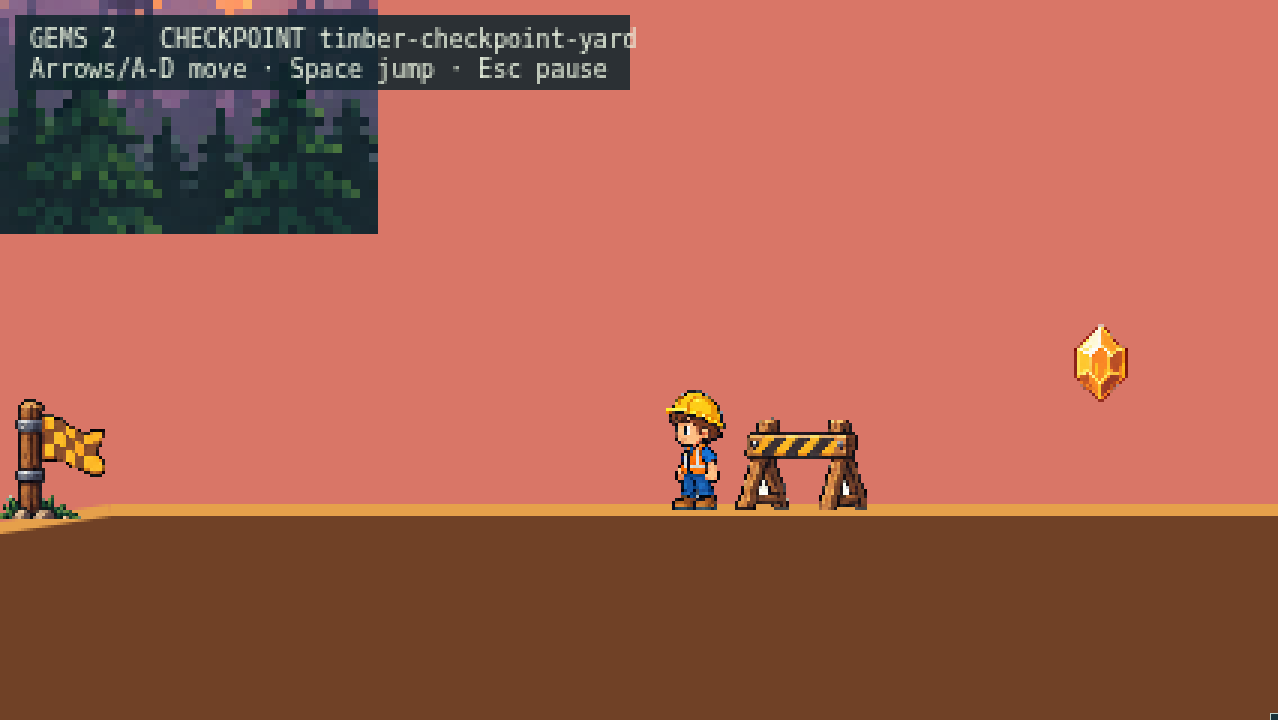
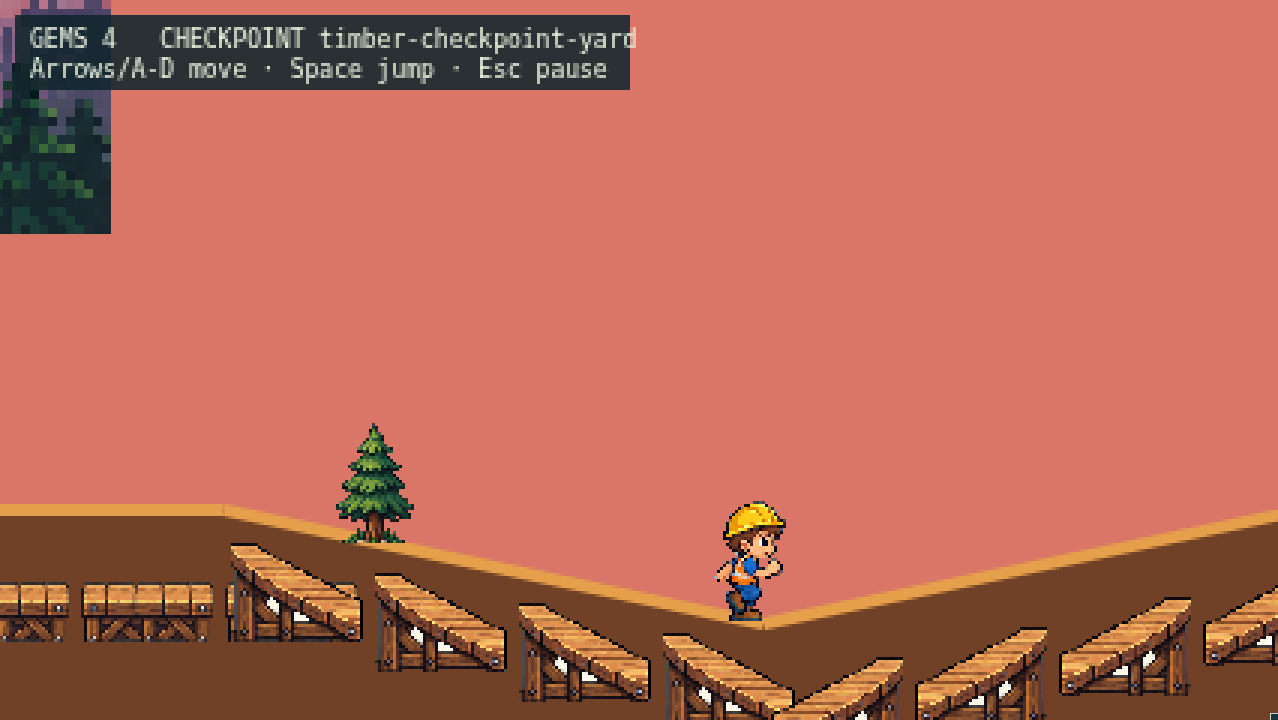
fix: render textured timber trails

diff --git a/tests/renderer.test.ts b/tests/renderer.test.ts
@@ -13,6 +13,7 @@ import { QUARRY_RUN, TREETOP_TIMBERS } from '../src/world/levels';
 import { platformBodyAt } from '../src/game/platforms';
 
 const manifest = JSON.parse(readFileSync(new URL('../public/assets/plains/manifest.json', import.meta.url), 'utf8'));
+const timberManifest = JSON.parse(readFileSync(new URL('../public/assets/timbers/manifest.json', import.meta.url), 'utf8'));
 
 it.each(['tree', 'slime', 'flowers', 'bush', 'stone', 'cave'] as WorldAsset[])(
   'anchors the visible base of %s, excluding atlas padding', (asset) => {
@@ -54,7 +55,7 @@ function recordingContext(): { ctx: CanvasRenderingContext2D; images: unknown[][
     fillStyle: '', strokeStyle: '', lineWidth: 0, font: '', textAlign: 'left' as CanvasTextAlign,
     fillRect: noop, beginPath: noop, moveTo: noop, lineTo: noop, closePath: noop, fill: noop, stroke: noop,
     strokeRect: noop,
-    translate: noop, save: noop, restore: noop,
+    translate: noop, scale: noop, save: noop, restore: noop,
     drawImage: (...args: unknown[]) => { images.push(args); },
     fillText: (text: string, x: number) => { texts.push({ text, x, textAlign: ctx.textAlign }); },
   };
@@ -143,6 +144,44 @@ it('uses the level theme for sky, terrain and parallax placement', () => {
   expect(fills).toContain('#040506');
   expect(images[0][5]).toBe(42);
   expect(images[0][6]).toBe(-33);
+});
+
+it('draws all shared terrain cell roles for textured Treetop surfaces', () => {
+  const assets: WorldAssets = { atlas: {} as HTMLImageElement, manifest: timberManifest };
+  const sampled = new Set<number>();
+  for (const x of [0, 1200, TREETOP_TIMBERS.width - 426]) {
+    const { ctx, images } = recordingContext();
+    drawWorld(ctx, assets, TREETOP_TIMBERS, { position: { x, y: 0 } } as Camera);
+    for (const call of images) {
+      if (call[0] === assets.atlas && call[2] === 0) sampled.add(Number(call[1]) / timberManifest.cellSize);
+    }
+  }
+  expect([...sampled].sort((a, b) => a - b)).toEqual([0, 1, 2, 3]);
+});
+
+it('mirrors textured ramp cells when the terrain descends to the right', () => {
+  const { ctx } = recordingContext();
+  const scale = vi.fn();
+  ctx.scale = scale;
+  const level = { ...PLAINS_LEVEL, minX: 0, maxX: 144, width: 144,
+    theme: { ...PLAINS_LEVEL.theme, scenery: false, texturedTerrain: true },
+    surfaces: [{ x1: 0, y1: 150, x2: 144, y2: 198 }],
+  };
+  drawWorld(ctx, worldAssets, level, new Camera({ width: 426, height: 240, worldWidth: 144, worldHeight: 240 }));
+  expect(scale).toHaveBeenCalledWith(-1, 1);
+});
+
+it('draws back, world and front entities in layer order without a scenery pack', () => {
+  const { ctx, images } = recordingContext();
+  const level = { ...PLAINS_LEVEL, theme: { ...PLAINS_LEVEL.theme, scenery: false }, entities: [
+    { id: 'world', kind: 'gem' as const, x: 100, y: 150, asset: 'gem', layer: 'world' as const },
+    { id: 'front', kind: 'decoration' as const, x: 110, y: 150, asset: 'bush', layer: 'front' as const },
+    { id: 'back', kind: 'decoration' as const, x: 120, y: 150, asset: 'tree', layer: 'back' as const },
+  ] };
+  drawWorld(ctx, worldAssets, level, new Camera({ width: 426, height: 240, worldWidth: level.width, worldHeight: level.height }));
+  const entityCells = images.slice(-4, -1).map((call) =>
+    Number(call[1]) / manifest.cellSize + Number(call[2]) / manifest.cellSize * 4);
+  expect(entityCells).toEqual([6, 8, 15]);
 });
 
 const henryAssets = {

diff --git a/src/world/renderer.ts b/src/world/renderer.ts
@@ -45,6 +45,7 @@ export function drawWorld(ctx: CanvasRenderingContext2D, assets: WorldAssets, le
     ctx.closePath();
     ctx.fill();
   }
+  if (level.theme.texturedTerrain) drawTerrainTiles(ctx, assets, level, offset);
   for (const surface of level.surfaces) {
     ctx.strokeStyle = level.theme.edge;
     ctx.lineWidth = 4;
@@ -55,8 +56,8 @@ export function drawWorld(ctx: CanvasRenderingContext2D, assets: WorldAssets, le
   }
   drawPlatforms(ctx, level, offset, platforms);
   // Decorative silhouettes sit behind every collectible, hazard and checkpoint.
-  const entities = scenery ? [...level.entities.filter((entity) => entity.kind === 'decoration'),
-    ...level.entities.filter((entity) => entity.kind !== 'decoration')] : level.entities;
+  const layerOrder: Record<WorldEntity['layer'], number> = { back: 0, world: 1, front: 2 };
+  const entities = [...level.entities].sort((left, right) => layerOrder[left.layer] - layerOrder[right.layer]);
   for (const entity of entities) {
     if (!isVisible(entity)) continue;
     const position = positionOf(entity);
@@ -68,6 +69,36 @@ export function drawWorld(ctx: CanvasRenderingContext2D, assets: WorldAssets, le
   // Keep the draw source referenced so a bad cell size cannot silently pass.
   void atlas;
   void cell;
+}
+
+function drawTerrainTiles(ctx: CanvasRenderingContext2D, assets: WorldAssets, level: LevelData,
+  offset: { x: number; y: number }): void {
+  const cell = assets.manifest.cellSize;
+  for (const surface of level.surfaces) {
+    const span = surface.x2 - surface.x1;
+    for (let x = surface.x1; x < surface.x2; x += cell) {
+      if (x + cell < offset.x || x > offset.x + 426) continue;
+      const end = Math.min(x + cell, surface.x2);
+      const y = surface.y1 + (surface.y2 - surface.y1) * ((x - surface.x1) / span);
+      const asset: WorldAsset = x === level.minX ? 'terrain-left'
+        : end === level.maxX ? 'terrain-right'
+        : surface.y1 !== surface.y2 ? 'terrain-ramp'
+        : 'terrain-flat';
+      const index = assets.manifest.assets[asset];
+      const sourceX = (index % 4) * cell;
+      const sourceY = Math.floor(index / 4) * cell;
+      if (asset === 'terrain-ramp' && surface.y2 > surface.y1) {
+        ctx.save();
+        ctx.translate(x - offset.x + cell, 0);
+        ctx.scale(-1, 1);
+        ctx.drawImage(assets.atlas, sourceX, sourceY, cell, cell, 0, y - offset.y, cell, cell);
+        ctx.restore();
+      } else {
+        ctx.drawImage(assets.atlas, sourceX, sourceY, cell, cell,
+          x - offset.x, y - offset.y, cell, cell);
+      }
+    }
+  }
 }
 
 /** Draw after the player, before the HUD; only low, non-interactive edge plants. */

diff --git a/tests/treetop-timbers.test.ts b/tests/treetop-timbers.test.ts
@@ -1,6 +1,8 @@
 import { readFileSync } from 'node:fs';
 import { expect, it } from 'vitest';
-import { DEFAULT_MOVEMENT, createPlayer, simulatePlayer, surfaceY } from '../src/game/movement';
+import type { GameAudio } from '../src/core/audio';
+import { AdventureScene } from '../src/game/adventure-scene';
+import { surfaceY } from '../src/game/movement';
 import { validateLevel, type WorldEntity } from '../src/world/level';
 import { LEVELS, TREETOP_TIMBERS, levelById } from '../src/world/levels';
 
@@ -45,15 +47,22 @@ it('plants grounded interactions on the timber trail', () => {
 });
 
 it('can finish Treetop Timbers while holding right without a mandatory timed jump', () => {
-  const player = createPlayer(TREETOP_TIMBERS.start.x, TREETOP_TIMBERS);
-  for (let frame = 0; frame < 60 * 150 && player.x < TREETOP_TIMBERS.finish.x; frame++) {
-    simulatePlayer(player, { horizontal: 1, jumpPressed: false, jumpHeld: false }, TREETOP_TIMBERS, 1 / 60);
-    if (player.y > TREETOP_TIMBERS.height + 80) {
-      throw new Error(`fell from the required route near x=${Math.round(player.x)}`);
-    }
+  const effects: string[] = [];
+  const audio: GameAudio = {
+    unlock: async () => {}, setMuted: () => {}, setSuspended: () => {}, startMusic: () => {},
+    play: (effect) => effects.push(effect), stop: () => {}, dispose: () => {},
+  };
+  const scene = new AdventureScene({} as never,
+    { plains: {} as never, timbers: {} as never }, audio, TREETOP_TIMBERS);
+  const input = { horizontal: 1, jumpPressed: false, jumpHeld: false, pausePressed: false, mutePressed: false };
+  scene.update(1 / 60, { ...input, horizontal: 0, jumpPressed: true });
+  for (let frame = 0; frame < 60 * 150 && scene.screenState !== 'finish'; frame++) {
+    scene.update(1 / 60, input);
   }
-  expect(player.x).toBeGreaterThanOrEqual(TREETOP_TIMBERS.finish.x);
-  expect(player.vx).toBeLessThanOrEqual(DEFAULT_MOVEMENT.maxSpeed);
+  expect(scene.screenState).toBe('finish');
+  expect(effects.filter((effect) => effect === 'spring')).toHaveLength(ofKind('spring').length);
+  expect(effects.filter((effect) => effect === 'checkpoint')).toHaveLength(TREETOP_TIMBERS.checkpoints.length);
+  expect(effects).not.toContain('recover');
 });
 
 it('ships a complete 4 by 4 timber atlas contract', () => {

diff --git a/tests/browser.spec.ts b/tests/browser.spec.ts
@@ -355,10 +355,8 @@ test('title picker renders Treetop Timbers with its own atlas', async ({ page },
     CanvasRenderingContext2D.prototype.drawImage = function (this: CanvasRenderingContext2D,
       ...args: Parameters<typeof original>) {
       const image = args[0];
-      if (image instanceof HTMLImageElement && image.src.endsWith('/environment.png')) {
-        const sources = JSON.parse(this.canvas.dataset.worldAtlases ?? '[]') as string[];
-        sources.push(image.src);
-        this.canvas.dataset.worldAtlases = JSON.stringify(sources);
+      if (image instanceof HTMLImageElement && image.src.endsWith('/assets/timbers/environment.png')) {
+        this.canvas.dataset.timberAtlas = image.src;
       }
       Reflect.apply(original, this, args);
     } as typeof original;
@@ -373,13 +371,13 @@ test('title picker renders Treetop Timbers with its own atlas', async ({ page },
   }
   await page.keyboard.press('Space');
   await expect(page.locator('#status')).toContainText('Adventure preview · Playing');
-  await expect.poll(async () => JSON.parse(
-    await page.locator('canvas').getAttribute('data-world-atlases') ?? '[]',
-  ) as string[]).toContainEqual(expect.stringContaining('/assets/timbers/environment.png'));
+  await expect(page.locator('canvas')).toHaveAttribute(
+    'data-timber-atlas', /\/assets\/timbers\/environment\.png$/,
+  );
   await page.keyboard.down('ArrowRight');
   await expect.poll(async () => Number(
     (await page.locator('#status').innerText()).match(/X (\d+)/)?.[1] ?? 0,
-  ), { timeout: 10000 }).toBeGreaterThan(650);
+  ), { timeout: 10000 }).toBeGreaterThan(1000);
   await page.keyboard.up('ArrowRight');
   const screenshot = info.outputPath('treetop-timbers.png');
   await page.locator('canvas').screenshot({ path: screenshot });

diff --git a/src/world/level.ts b/src/world/level.ts
@@ -16,6 +16,8 @@ export interface WorldEntity {
 }
 export interface LevelTheme {
   scenery?: boolean;
+  /** Draw the shared terrain cells over the solid collision contour. */
+  texturedTerrain?: boolean;
   sky: string;
   ground: string;
   edge: string;

diff --git a/src/world/levels.ts b/src/world/levels.ts
@@ -246,6 +246,7 @@ export const TREETOP_TIMBERS: LevelData = {
   name: 'TREETOP TIMBERS',
   atlas: 'timbers',
   theme: {
+    texturedTerrain: true,
     sky: '#d97667',
     ground: '#704126',
     edge: '#e6a04b',

diff --git a/docs/superpowers/plans/2026-09-19-treetop-timbers.md b/docs/superpowers/plans/2026-09-19-treetop-timbers.md
@@ -208,7 +208,7 @@
 - Consumes: all commits after base `75fe680` plus the design commit.
 - Produces: a reviewed GitHub pull request against `main` with `Closes #32`.
 
-- [ ] **Step 1: Run complete fresh verification.**
+- [x] **Step 1: Run complete fresh verification.**
 
   ```sh
   npm test
@@ -220,11 +220,11 @@
 
   Expected: every command exits zero; record exact suite counts and browser results.
 
-- [ ] **Step 2: Dispatch the requested read-only reviewer subagent.**
+- [x] **Step 2: Dispatch the requested read-only reviewer subagent.**
 
   Give it the issue requirements, approved spec, base `75fe680`, current head, and the required read-only reviewer template. Require categorized findings and a merge-readiness verdict.
 
-- [ ] **Step 3: Address review findings.**
+- [x] **Step 3: Address review findings.**
 
   Fix every Critical and Important finding with a failing regression test first. Re-run the relevant focused command, then the full verification commands from Step 1. Commit validated fixes with an imperative subject.
 

diff --git a/docs/evidence/issue-32/README.md b/docs/evidence/issue-32/README.md
@@ -10,6 +10,7 @@ Command:
 npx playwright test tests/browser.spec.ts --project=chromium --grep "Treetop Timbers"
 ```
 
-The frame shows the warm sunset sky, dark timber ground, generated timber
-props, and Henry on the opening section. The same test records canvas image
-sources and requires the rendered world to use `/assets/timbers/environment.png`.
+The frame shows the warm sunset sky, textured plank trail, generated timber
+props, and Henry approaching the first shallow rope-bridge contour after the
+opening crane-hook spring. The same test records the timber atlas source once
+and requires the rendered world to use `/assets/timbers/environment.png`.

diff --git a/README.md b/README.md
@@ -108,7 +108,9 @@ generation call is used.
 - `src/foundation-scene.ts`: diagnostic drawing for the foundation screen.
 
 Illustrated assets were generated with the built-in image generator and processed
-into project-local atlases. See [Henry art](docs/art/README.md) and [Plains world](docs/plains-world.md).
+into project-local atlases. See [Henry art](docs/art/README.md),
+[Plains world](docs/plains-world.md), and
+[Treetop Timbers provenance](assets/source/timbers/PROVENANCE.md).
 
 Known limitations and out of scope: public hosting, touch controls, additional
 biomes beyond the shipped Plains and Timbers art, mining/building/crafting and
